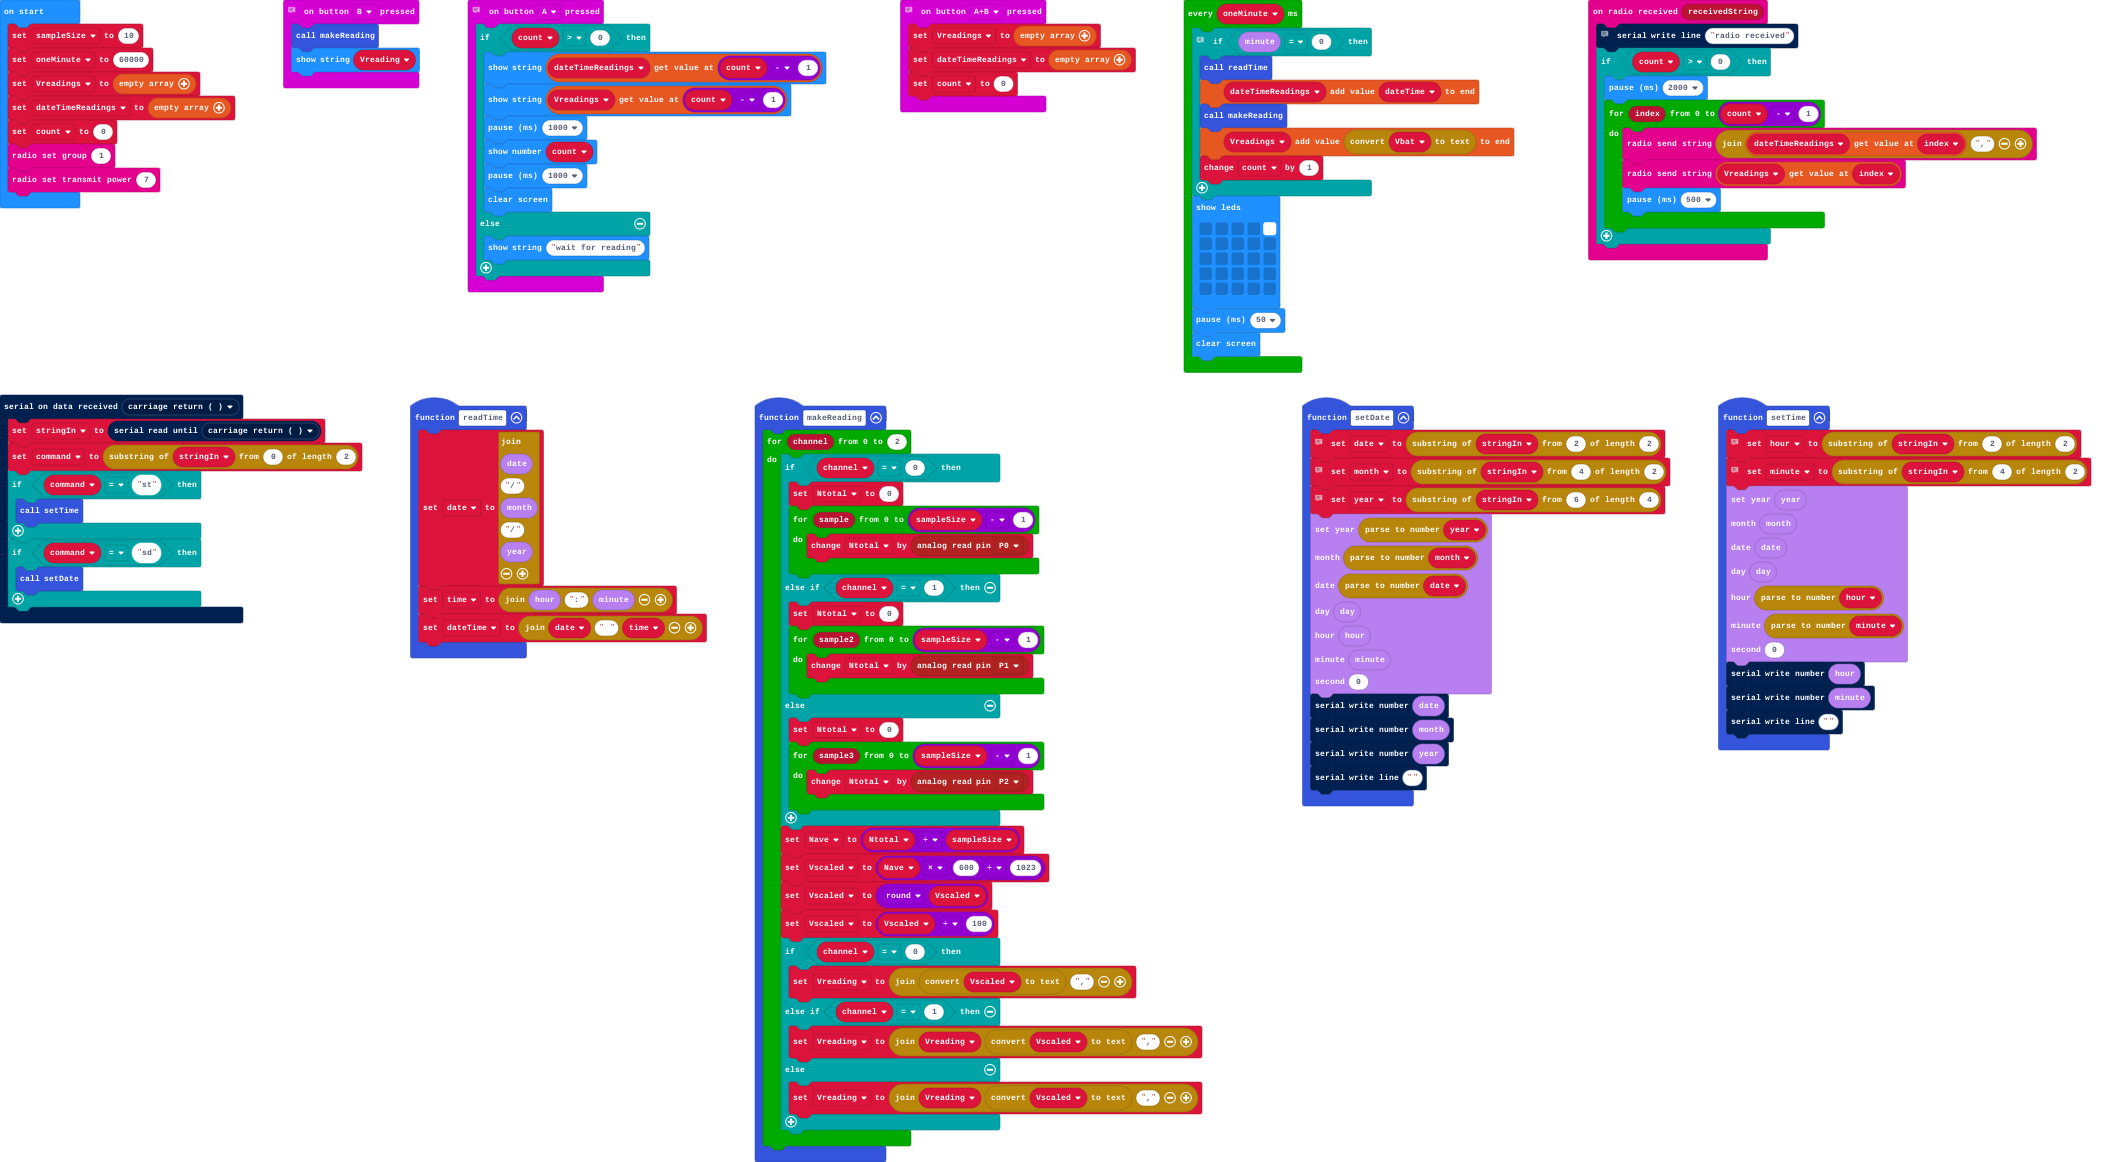
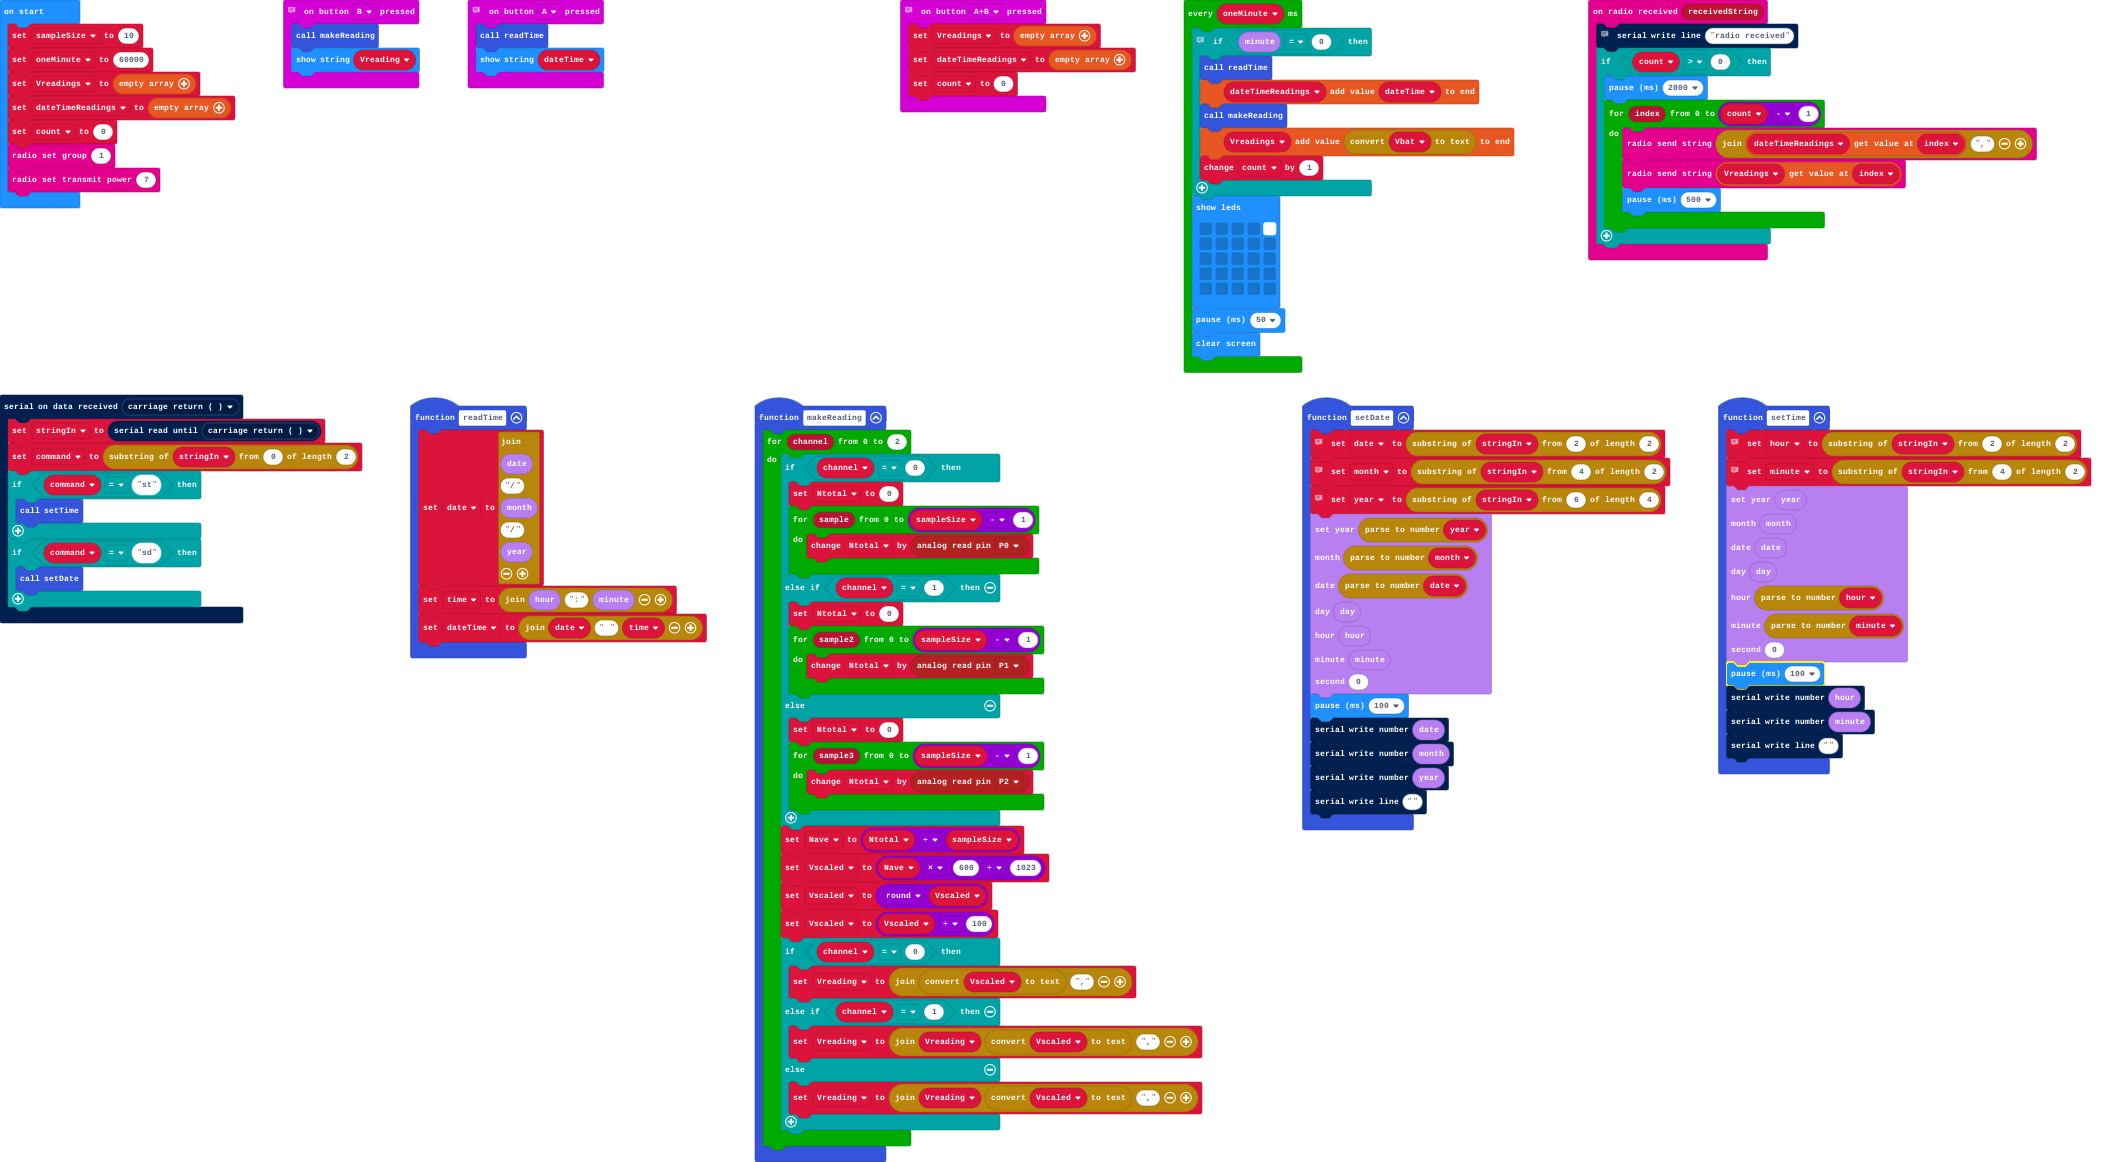
st and sd still buggy

Changed region(s): [[0.2182, 0.0, 0.4053, 0.2788], [0.8106, 0.5577, 0.9041, 0.6816], [0.5923, 0.5886, 0.6859, 0.7126]]

diff --git a/main.ts b/main.ts
@@ -34,18 +34,10 @@ function makeReading () {
         }
     }
 }
-// Test block
+// Show date and time
 input.onButtonPressed(Button.A, function () {
-    if (count > 0) {
-        basic.showString("" + (dateTimeReadings[count - 1]))
-        basic.showString("" + (Vreadings[count - 1]))
-        basic.pause(1000)
-        basic.showNumber(count)
-        basic.pause(1000)
-        basic.clearScreen()
-    } else {
-        basic.showString("wait for reading")
-    }
+    readTime()
+    basic.showString(dateTime)
 })
 function setDate () {
     // the first 2 characters after command
@@ -63,6 +55,7 @@ function setDate () {
     DS3231.minute(),
     0
     )
+    basic.pause(100)
     serial.writeNumber(DS3231.date())
     serial.writeNumber(DS3231.month())
     serial.writeNumber(DS3231.year())
@@ -88,6 +81,7 @@ function setTime () {
     parseFloat(minute),
     0
     )
+    basic.pause(100)
     serial.writeNumber(DS3231.hour())
     serial.writeNumber(DS3231.minute())
     serial.writeLine("")
@@ -104,7 +98,7 @@ radio.onReceivedString(function (receivedString) {
         }
     }
 })
-// Instant PTH
+// Show ADC readings
 input.onButtonPressed(Button.B, function () {
     makeReading()
     basic.showString(Vreading)
